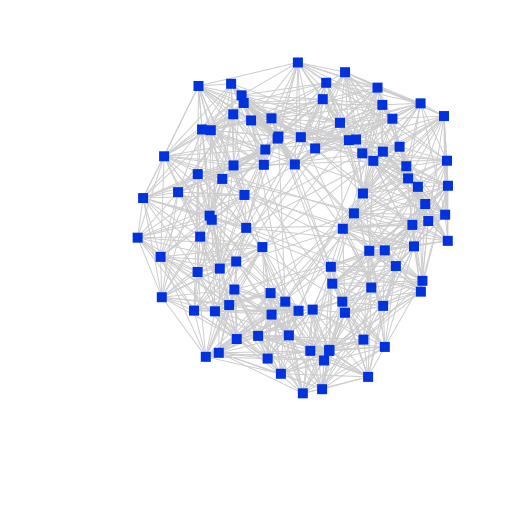
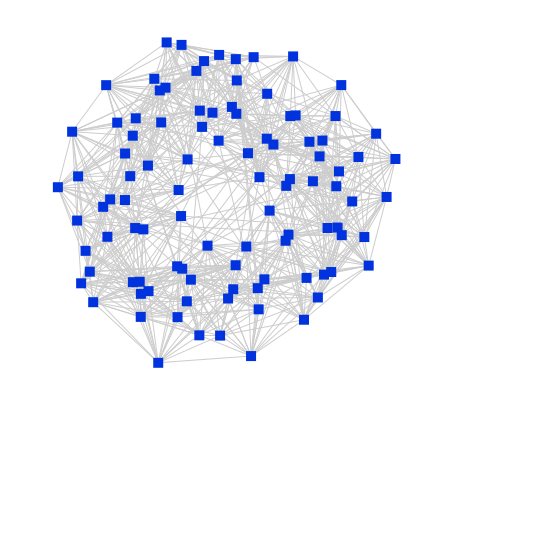
Deterministic randomness

Changed region(s): [[0.0906, 0.0604, 0.8755, 0.7547]]

diff --git a/index.js b/index.js
@@ -252,6 +252,9 @@ function noLinks(n) {
 function wattsStrogatz(n, k, p, seed) {
   if (k >= n) throw new Error('Choose smaller `k`. It cannot be larger than number of nodes `n`');
 
+
+  var random = require('ngraph.random').random(seed || 42);
+
   var g = createGraph(), i, to;
   for (i = 0; i < n; ++i) {
     g.addNode(i);
@@ -271,11 +274,11 @@ function wattsStrogatz(n, k, p, seed) {
   // no self loops or multiple edges allowed
   for (j = 1; j < neighborsSize; ++j) {
     for (i = 0; i < n; ++i) {
-      if (Math.random() < p) {
+      if (random.nextDouble() < p) {
         var from = i;
         to = (j + i) % n;
 
-        var newTo = Math.floor(Math.random() * n);
+        var newTo = random.next(n);
         var needsRewire = (newTo === from || g.hasLink(from, newTo));
         if (needsRewire && g.getLinks(from).length === n - 1) {
           // we cannot rewire this node, it has too many links.
@@ -283,7 +286,7 @@ function wattsStrogatz(n, k, p, seed) {
         }
         // Enforce no self-loops or multiple edges
         while (needsRewire) {
-          newTo = Math.floor(Math.random() * n);
+          newTo = random.next(n);
           needsRewire = (newTo === from || g.hasLink(from, newTo));
         }
         var link = g.hasLink(from, to);
